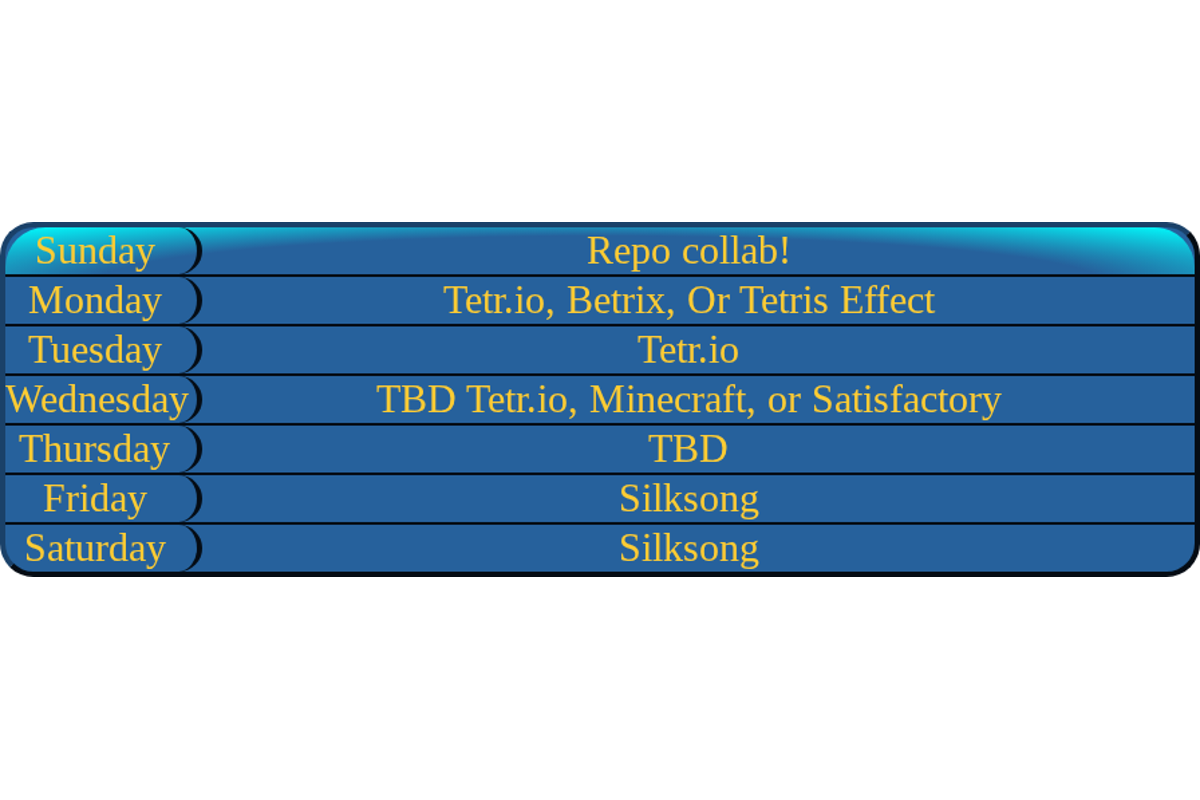
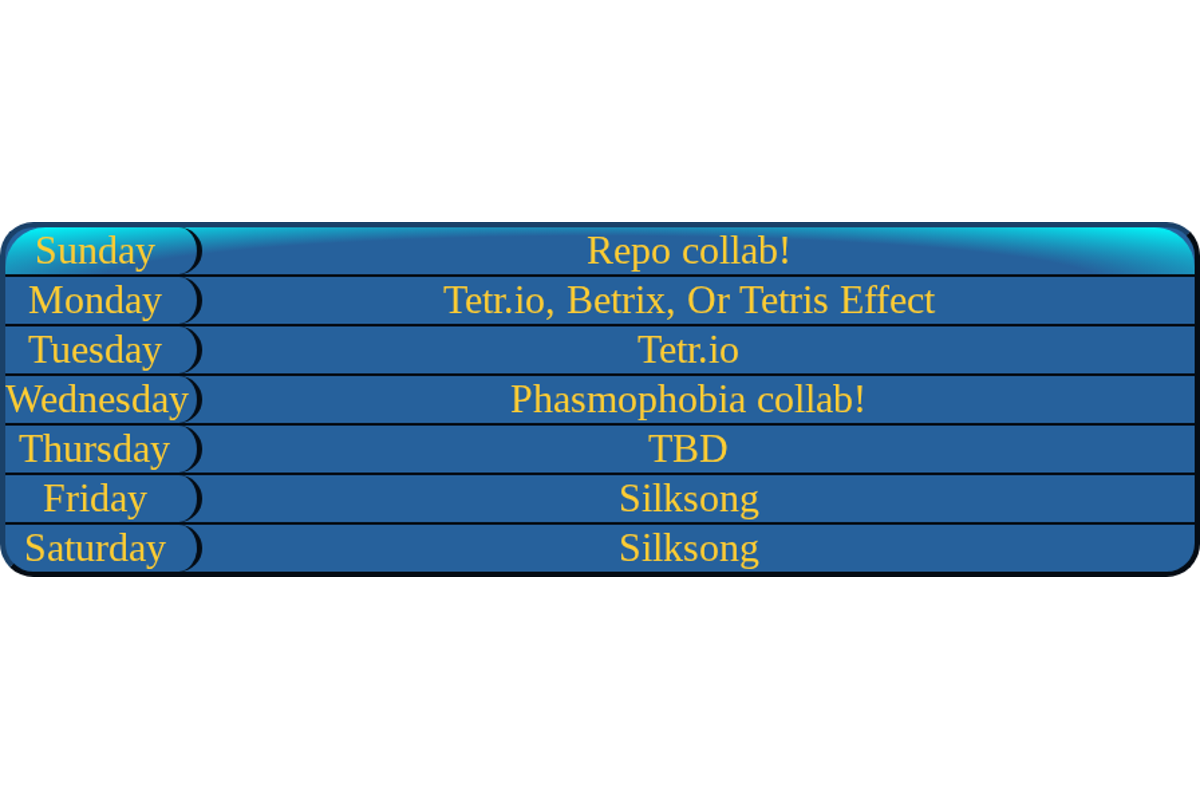
Updated schedule with collab notices

Changed region(s): [[0.3083, 0.4688, 0.8325, 0.5312]]

diff --git a/Schedule.html b/Schedule.html
@@ -12,8 +12,8 @@
 		<meta content="Stream Schedule" property="og:title" />
 		<meta content="The schedule for my streams, which i try to stay on top of" property="og:description" />
 		<meta content="https://atlas-chainsteel.github.io/Schedule.html" property="og:url" />
-		<meta id="og-image" content="https://atlas-chainsteel.github.io/embedimage.png?v=28092025" property="og:image" />
-		<meta id="twitEmbed" content="https://atlas-chainsteel.github.io/embedimage.png?v=28092025" name="twitter:image" />
+		<meta id="og-image" content="https://atlas-chainsteel.github.io/embedimage.png?v=280920251251" property="og:image" />
+		<meta id="twitEmbed" content="https://atlas-chainsteel.github.io/embedimage.png?v=280920251251" name="twitter:image" />
 		<meta content="summary_large_image" name="twitter:card" />
 		<meta content="#26619c" data-react-helmet="true" name="theme-color" />
 	</head>
@@ -33,7 +33,7 @@
 			</div>
 			<div class="date">
 				<div class="day">Wednessday:</div>
-				<div class="plans">TBD Tetr.io, Minecraft, or Satisfactory</div>
+				<div class="plans">Phasmophobia collab!</div>
 			</div>
 			<div class="date">
 				<div class="day">Thursday:</div>
